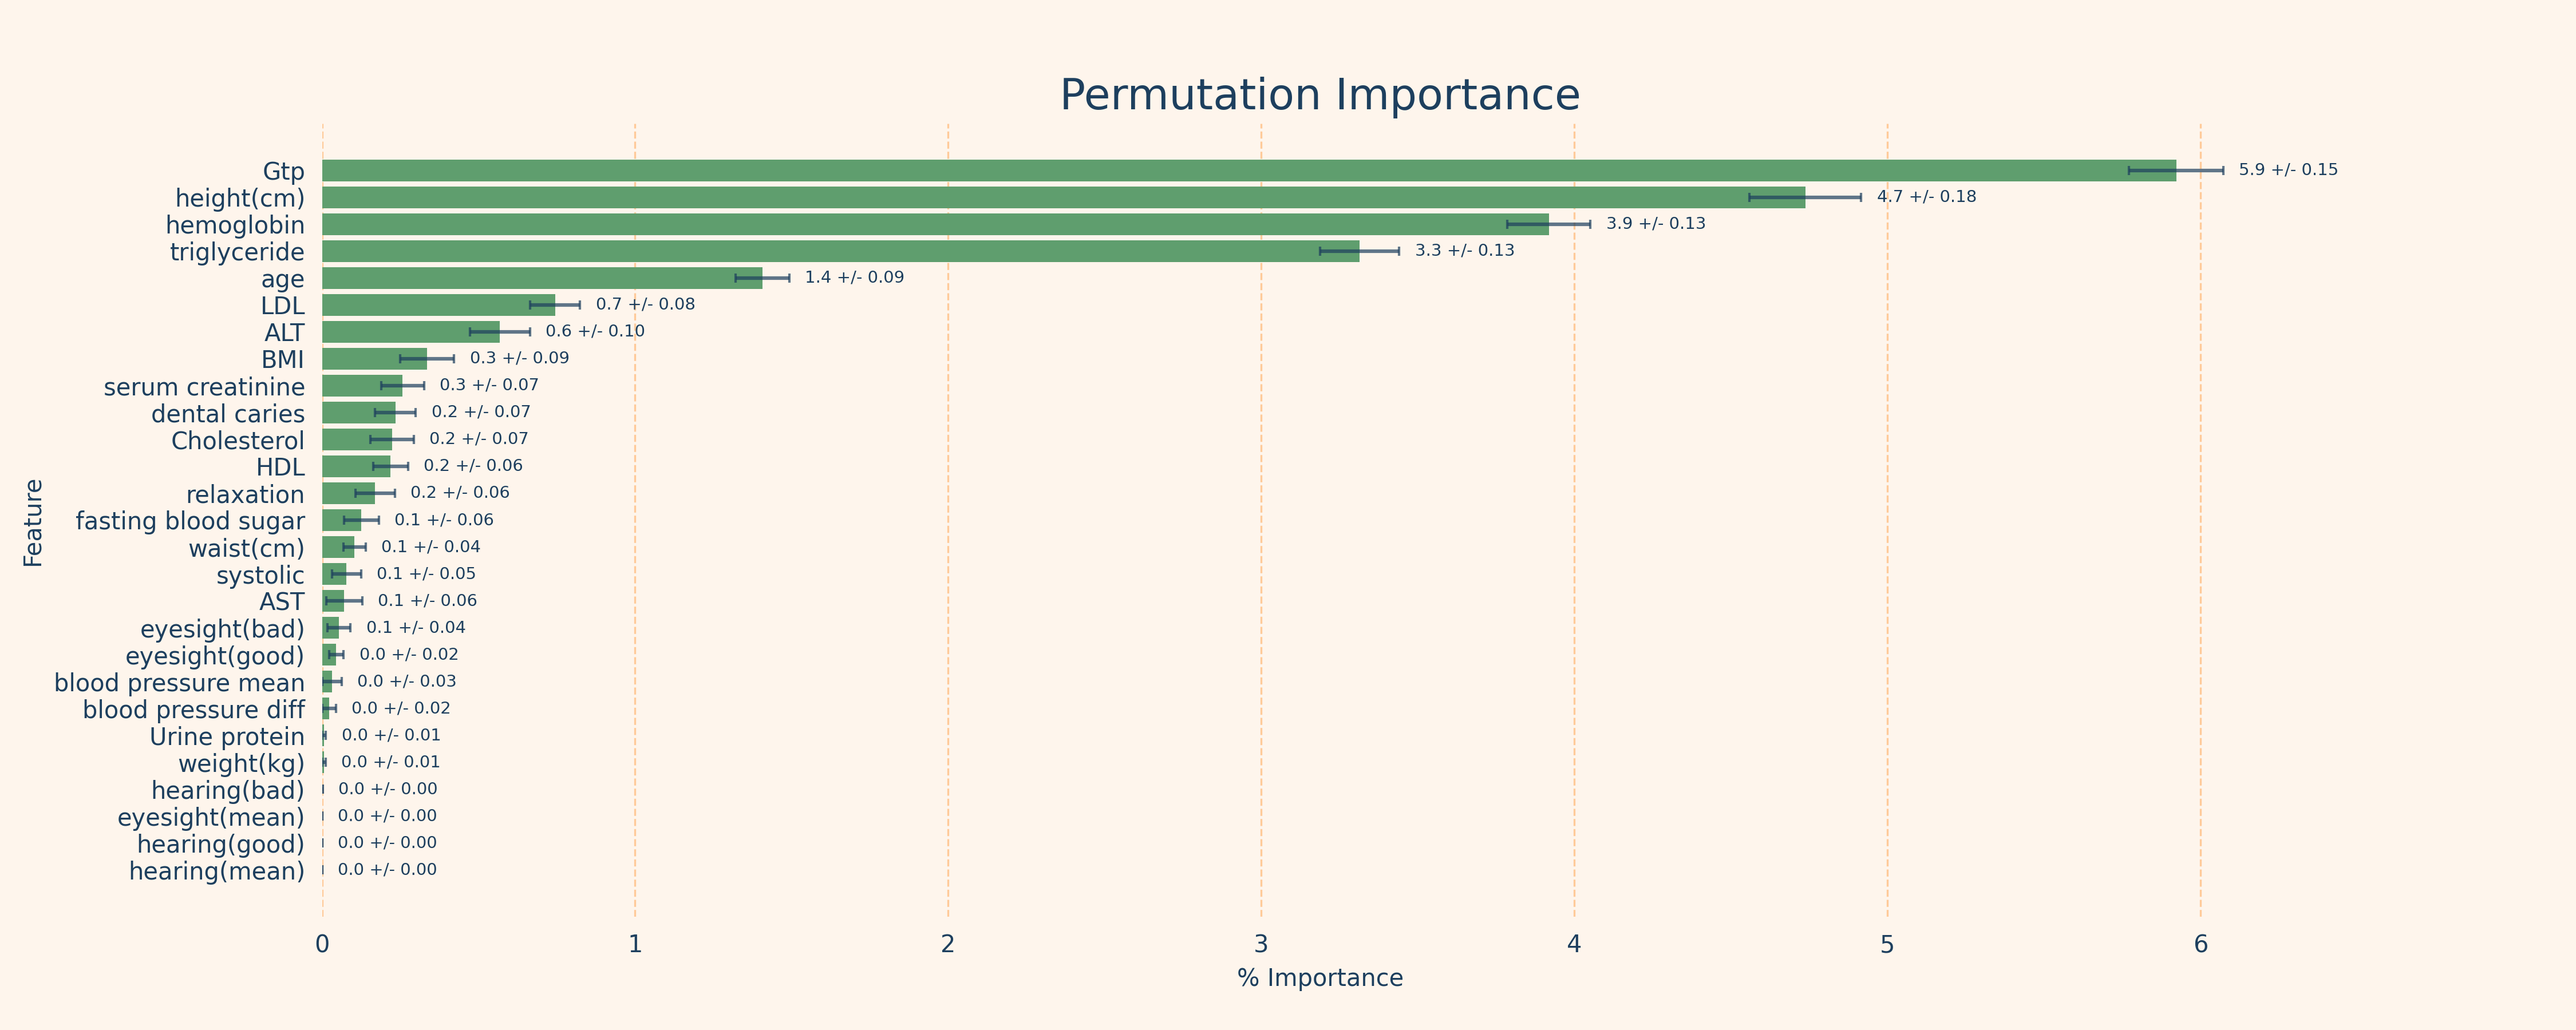
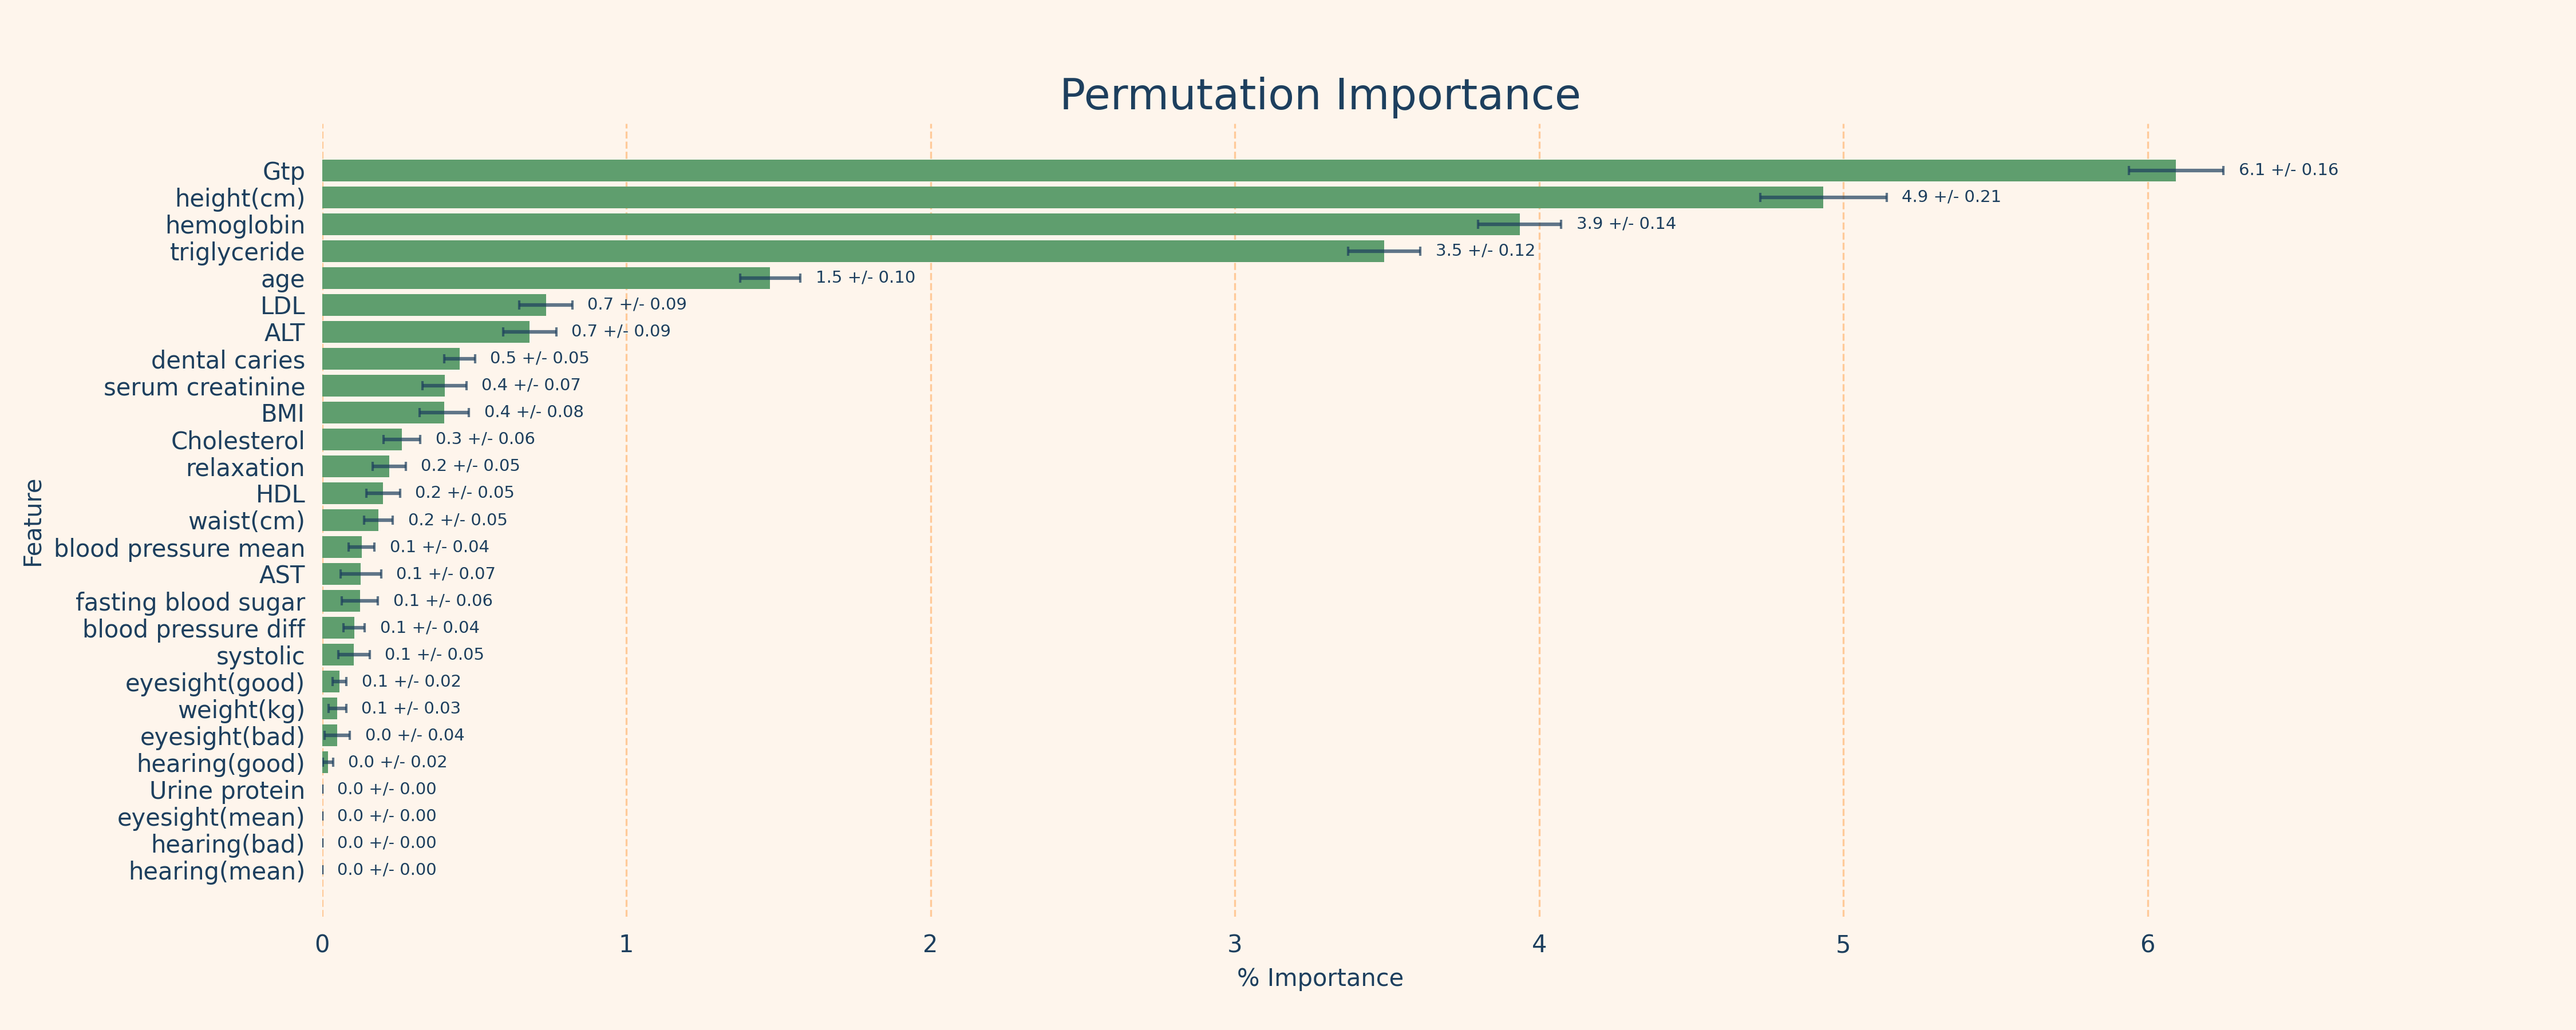
update

diff --git a/pages/2_🚬_Smoker_Status_Prediction.py b/pages/2_🚬_Smoker_Status_Prediction.py
@@ -191,10 +191,9 @@ st.write('''
     - *XGBClassifier*
     - *LGBMClassifier*
          
-    Unsurprisingly logistic regression was by far the fastest, but I got the best scores using LGBM, XGB and HistGradientBoost.
-    I then tried two different ways of combining these estimators.
-    - *VotingClassifier*: performed well enough but not always better than its best estimator
-    - *StackingClassifier* (with a simple logistic regression as final estimator): performed better than even its best base estimator
+    I then tried two different ways of combining some of these estimators:
+    - *VotingClassifier*
+    - *StackingClassifier* (with a simple logistic regression as final estimator)
 ''')
 
 st.divider()
@@ -202,15 +201,32 @@ st.markdown('<a name="evaluation&interpretation"></a>', unsafe_allow_html=True)
 st.write('## Evaluation & Interpretation')
 
 st.write('''
-    With a simple training-validation-split I got an area under the ROC curve of **0.8665**,
+    
+    I tested my different strategies for feature engineering and scaling against a baseline 
+    of no feature engineering at all and minimal scaling (simply standardizing all columns).
+    Unfortunately I have to admit that my preprocessing approaches had only a very minor impact on the final predictive power of my model (+0.002).
+    Also scaling the skewed features helped a tiny bit, it didn't seem to matter whether I used log scaling, 
+    power transformation or quantile standardization.
+         
+
+    I did, however, see great variability in scores and time-efficiency between the different classification algorithms.
+    - Unsurprisingly *LogisticRegression* was by far the fastest, but produced the worst score.
+    - *LinearSVC* had a slightly better score, but took a lot longer.
+    - *RandomForest*, *ExtraTrees* and *AdaBoost* had even better scores but were also very time-consuming.
+    - The best scores came from *LGBM*, *XGB* and *HistGradientBoost* classifiers while only taking about twice as long as logistic regression. So I used these three as base estimators.
+    - The *VotingClassifier* performed well enough but not always better than its best estimator, whereas the *StackingClassifier* performed even better than that.
+    
+    With a simple training-validation-split I got an area under the ROC curve of **0.8683**,
     which turned out to be very close to my final score on the actual testset: **0.8675**.
 ''')
 
 st.image(PLOT_PATH + 'roc_pr_curves.png')
 st.write('''
     It's worth mentioning that every single classifier I tried had relatively low variability in their scores, so the results are robust.
-    This could be in part due to the large amount of data available, 
-    so that any sample used for training, will be fairly representative of the entire dataset.
+    No doubt this is in part due to the large amount of data available, 
+    so that any sample used for training, will be fairly representative of the entire dataset. 
+    But it should be mentioned that feature engineering and further scaling also had a stabilizing impact here.
+         
 ''')
 
 st.markdown('<hr style="border:0.5px solid #FFDFC2;"/>', unsafe_allow_html=True)
@@ -221,10 +237,10 @@ st.write('''
     But what does this result really point to? Obviously smoking does not cause people to become taller.
     It's also implausible, although not impossible, that there's something about being tall itself that causes an increased tendency to smoke.
     The most likely explanation is, however, that being tall in the context of this dataset serves simply a proxy for being male. 
-    After all men are much more likely to smoke. Yet another reminder that *correlation does not equal causation*.
+    After all, men are much more likely to smoke than women. Yet another reminder that *correlation does not equal causation*.
 
-    In some sense this insight is quite unhelpful because it doesn't help us understand how smoking changes the body.
-    In another sense this result is highly interesting because it shows how powerful a predictor a person's sex is. 
+    On the one hand this insight is quite unhelpful because it doesn't help us understand how smoking changes the body.
+    On the other hand this result is highly interesting because it shows how powerful a predictor a person's sex is. 
     It is such a strong predictor for smoker status, that even a variable like height 
     which correlates imperfectly with sex trumps most other factors such as blood pressure or lipid profile.
 ''')
